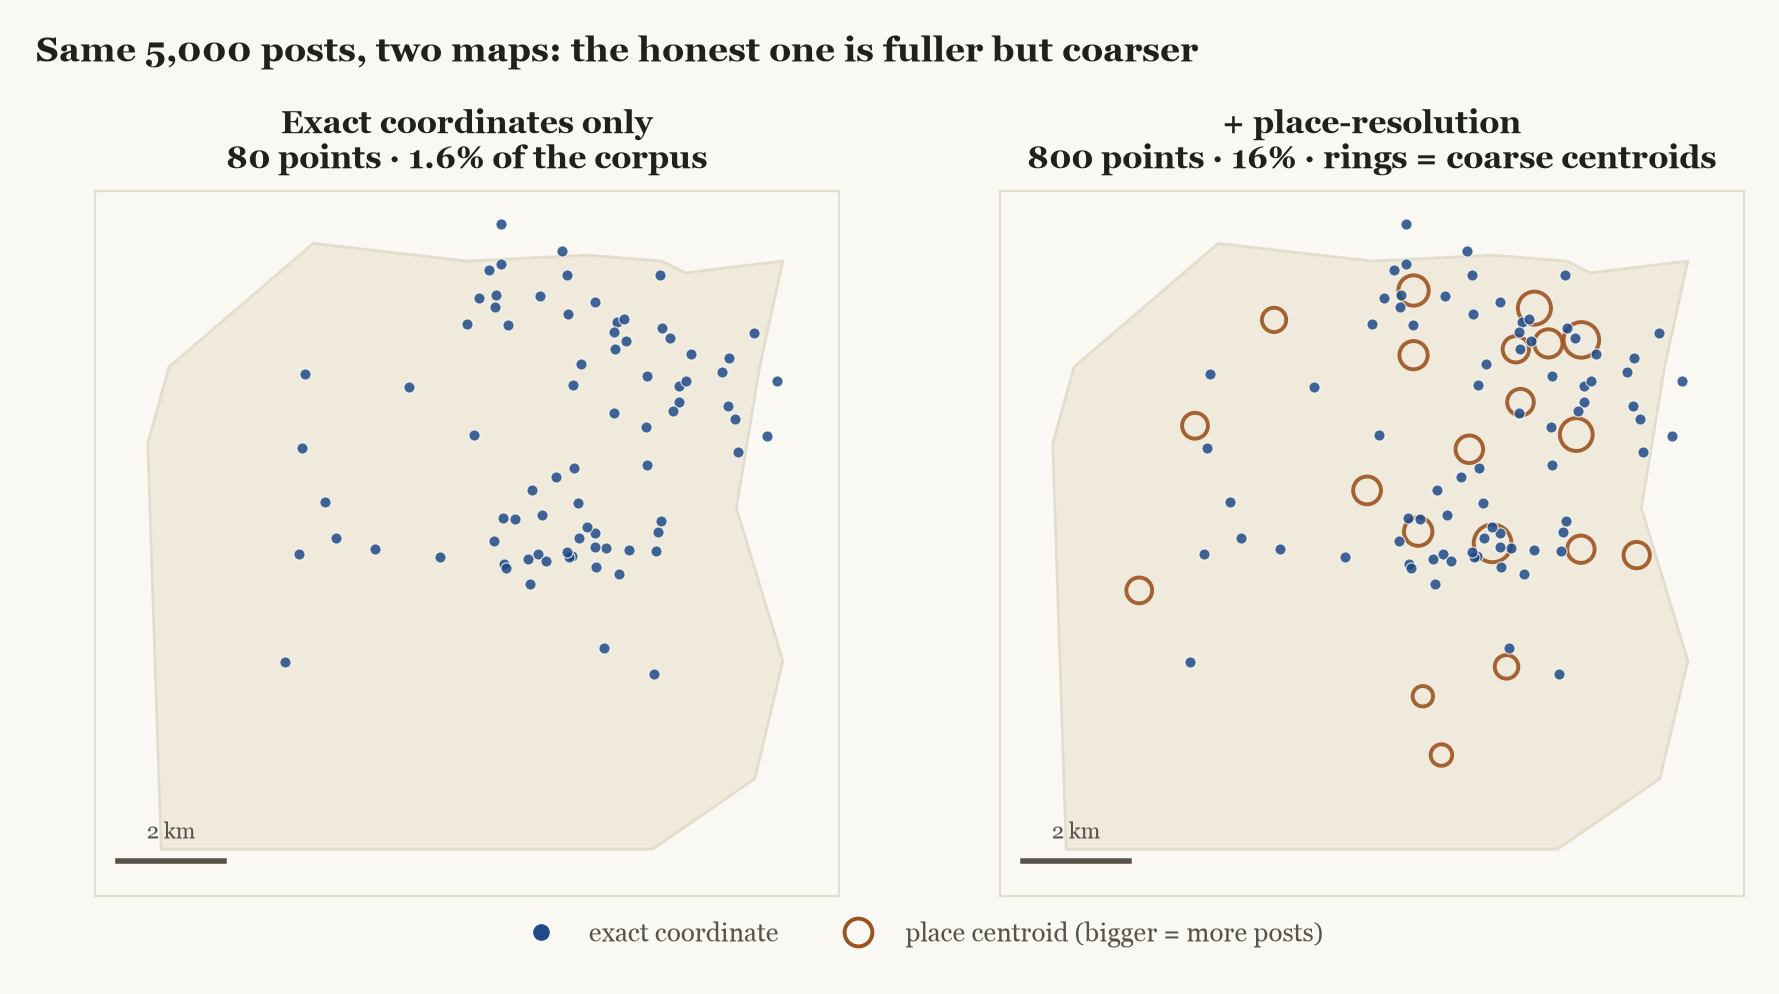
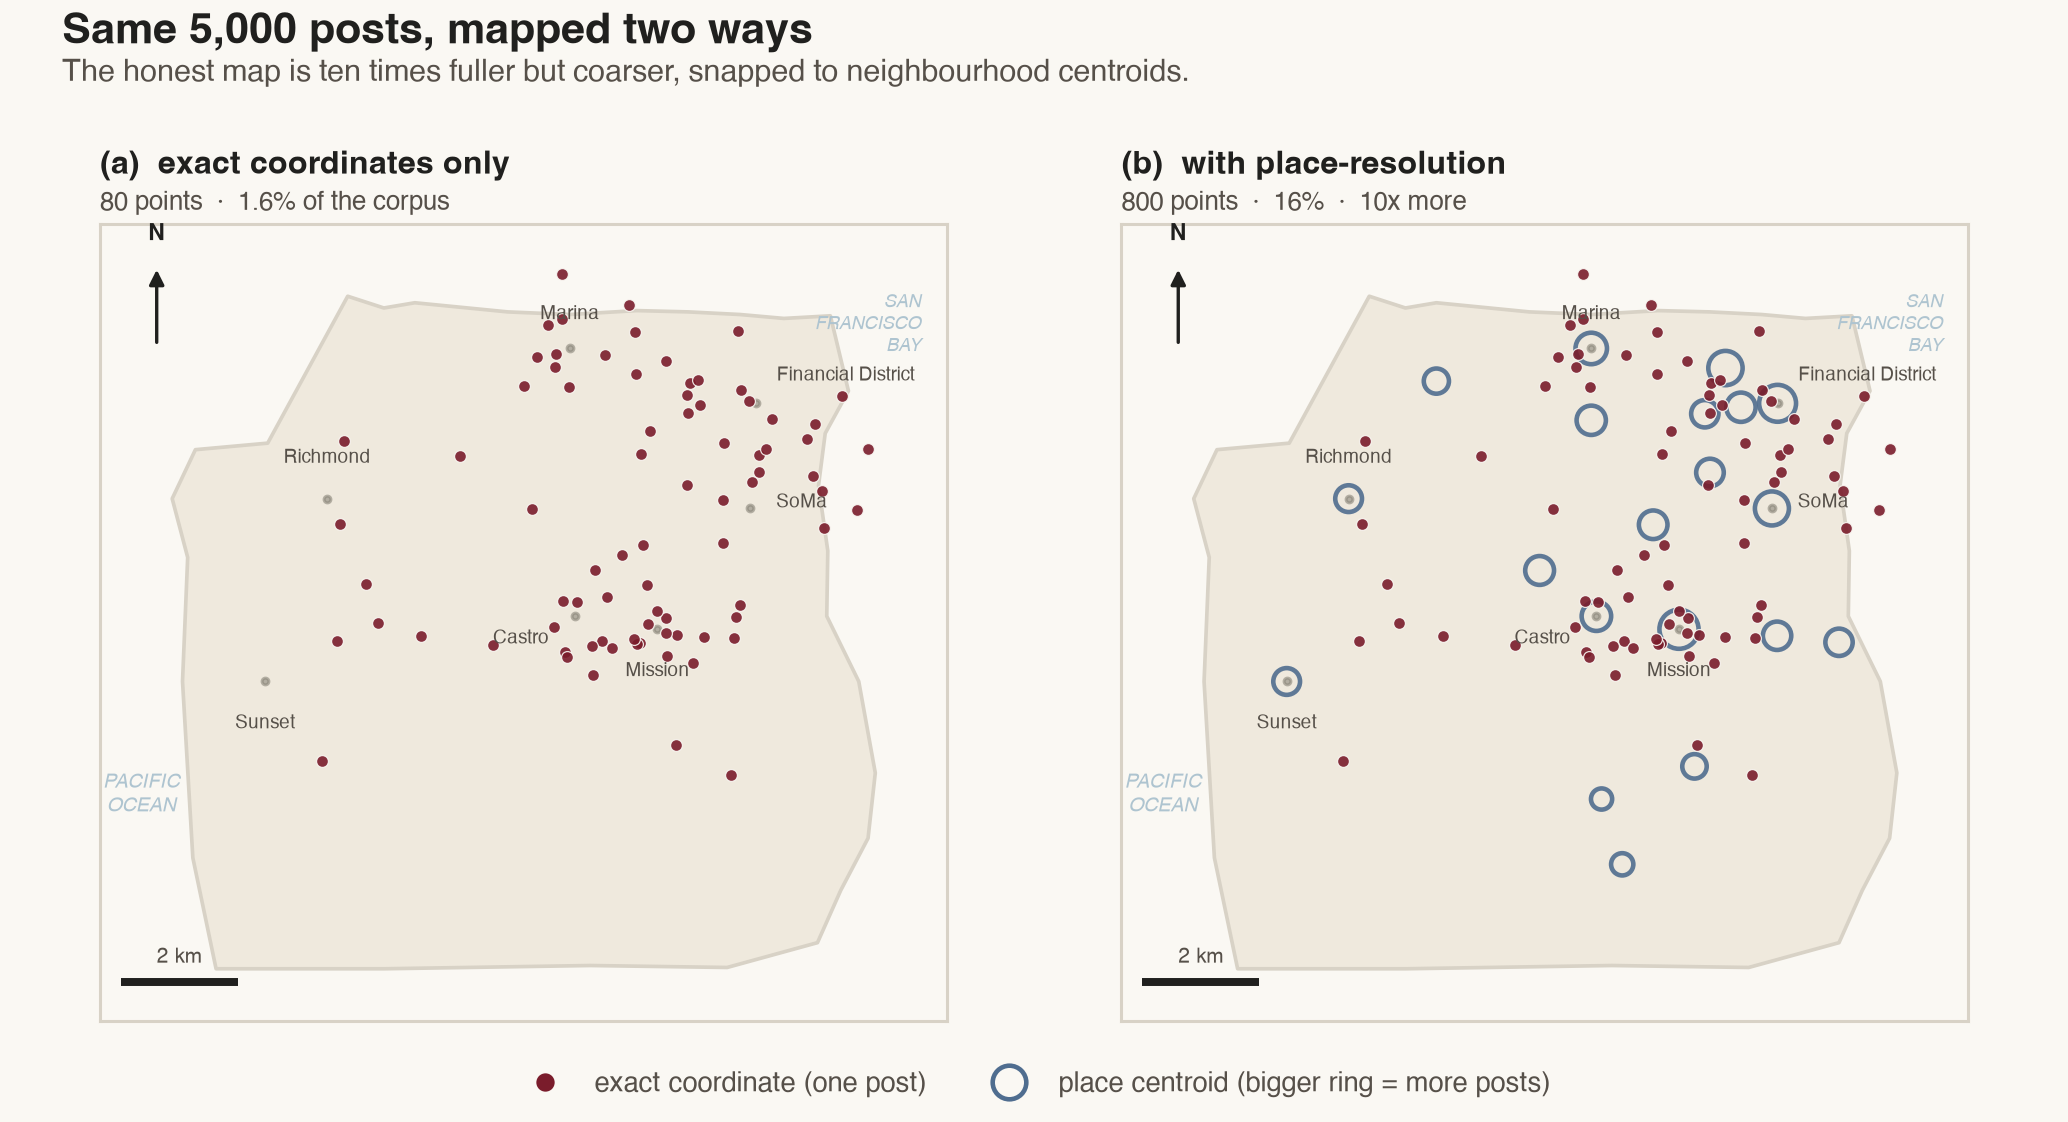
Writing: upgrade the GeoSocialX diagrams (unit chart + refined map)
Replace the two figures with more granular, better-made research figures in a
simple sans typeface and the maroon palette: a 5,000-square unit chart (one mark
per post) and a two-panel SF map with a refined coastline, labelled neighbourhood
references, ocean/bay orientation, north arrow and scale bar. Update the post
captions and alt text to match.

diff --git a/blog/geosocialx-coverage.html b/blog/geosocialx-coverage.html
@@ -109,8 +109,8 @@ ex.coverage(tweets)
         <p>Eighty posts, <strong>1.6%</strong>, carry a real coordinate. Another 720 (14.4%) carry only a place tag. And 4,200, <strong>84% of the corpus, carry no location at all.</strong> That last number is the one every silent pipeline throws away without ever printing. Here it is a returned value, forced into the open:</p>
 
         <figure>
-          <img src="../images/geosocialx-coverage.png" alt="Horizontal bar of 5,000 posts: a 1.6% blue sliver of exact coordinates, a 14.4% rust segment of place-only tags, and an 84% gray segment with no location. A naive map keeps only the sliver; place-resolution reaches 16%; the 84% is reported, not dropped." loading="lazy">
-          <figcaption>The coverage cliff. A naive map keeps the thin blue sliver, 1.6% of the corpus, and implies it speaks for the whole. Place-resolution reaches 16%. The 84% with no location is the point: <code>coverage()</code> returns it instead of deleting it.</figcaption>
+          <img src="../images/geosocialx-coverage.png" alt="A unit chart of 5,000 squares, one per post: a small maroon block of 80 exact-coordinate posts (1.6%), a steel-blue block of 720 place-tagged posts (14.4%), and a large grey block of 4,200 posts with no location (84%)." loading="lazy">
+          <figcaption>One square per post. Exact coordinates (maroon) are just 1.6% of the pull, and a naive map plots only those. Place-resolution recovers the place-tagged squares (steel) to reach 16%. The 84% with no location (grey) is reported by <code>coverage()</code>, not silently dropped.</figcaption>
         </figure>
 
         <h2>Place-resolution: 10&times; more data, honestly labelled</h2>
@@ -131,7 +131,7 @@ GeospatialAnalyzer(pts).summary()
         <p>Eighty points became eight hundred, a <strong>10&times; recovery</strong>, and the map goes from &ldquo;statistically empty&rdquo; to genuinely usable. But it does not become more precise. It becomes <em>fuller and coarser at the same time</em>, and the <code>source</code> flag is what keeps that trade-off visible instead of laundered.</p>
 
         <figure>
-          <img src="../images/geosocialx-maps.png" alt="Two maps of San Francisco from the same 5,000 posts. Left: 80 scattered exact points, 1.6%. Right: the same points plus rust rings at neighborhood centroids sized by post count, 800 points, 16%, fuller but visibly snapped to a handful of coarse locations." loading="lazy">
+          <img src="../images/geosocialx-maps.png" alt="Two maps of San Francisco from the same 5,000 posts. Left: 80 scattered maroon exact-coordinate points, 1.6%. Right: the same points plus steel-blue rings at neighbourhood centroids sized by post count, 800 points, 16%, fuller but visibly snapped to a handful of coarse locations." loading="lazy">
           <figcaption>Same 5,000 posts, two maps. Left is what exact coordinates alone give you: 80 precise-looking dots that read as authoritative and cover 1.6% of the data. Right adds place-resolution: 10&times; the records, but stacked onto neighborhood centroids (the rings), coarse by construction. Both maps still omit the 84% with no location. The difference is that GeoSocialX <em>tells you</em> they&rsquo;re omitted.</figcaption>
         </figure>
 
